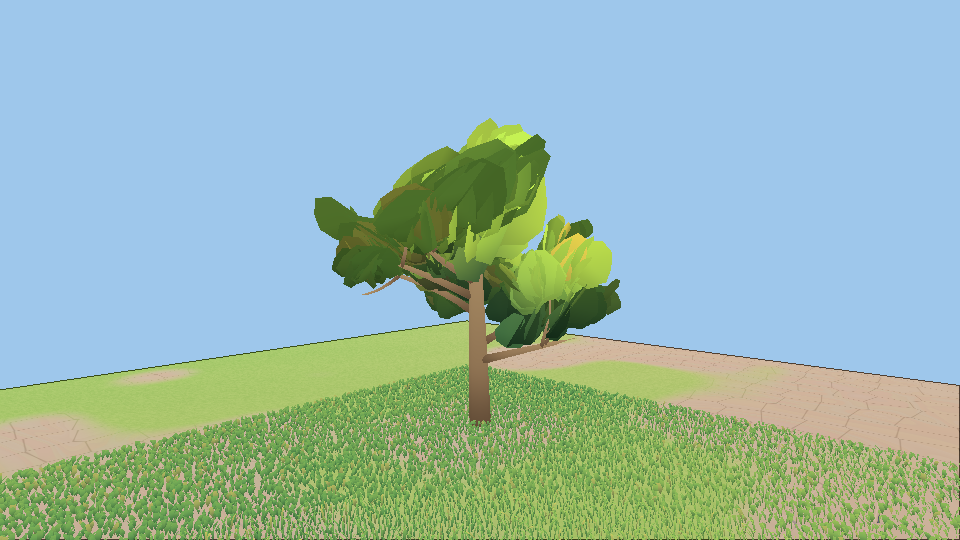
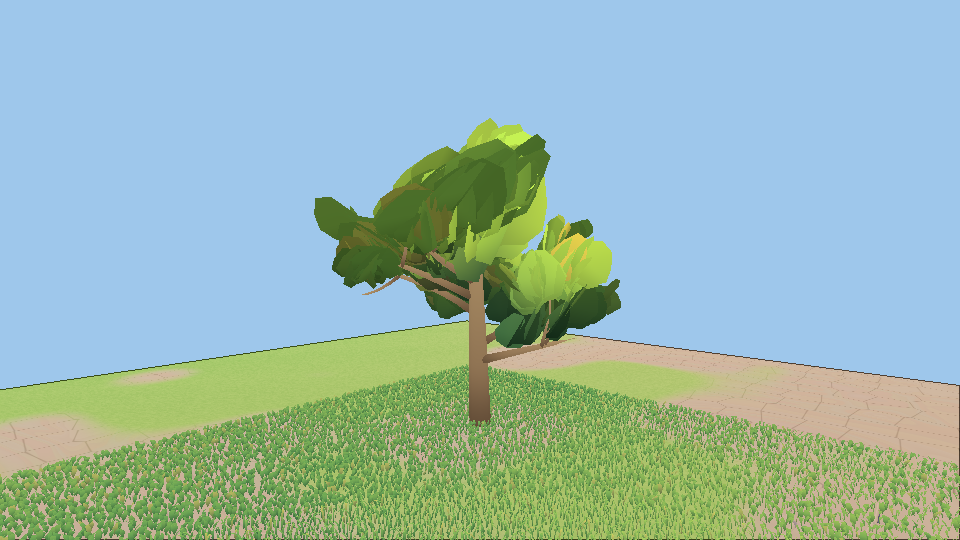
feat(vegetation): willow drapes as thin leafy strands
Keep the distant weeping silhouette, but up close drapes are thin hanging
stems with small alternating alpha leaves instead of wide curtain cards.
Smooth, dither, and crisp all drive that strand mask; crisp hard-cuts the
leaflets. `/leaves` still selects the close-up style.

diff --git a/maybraid/world/layers/vegetation/shaders/src/wesl/shading.rs b/maybraid/world/layers/vegetation/shaders/src/wesl/shading.rs
@@ -183,6 +183,14 @@ impl LeafCluster {
 		leaf_cluster_keep_for_style(alpha, pixel, seed, detail, style)
 	}
 
+	pub fn drape_mask(uv: Vec2, seed: u32, detail: f32, style: u32) -> f32 {
+		drape_strand_mask(uv, seed, detail, style)
+	}
+
+	pub fn drape_tint(uv: Vec2, seed: u32) -> f32 {
+		drape_strand_tint(uv, seed)
+	}
+
 	pub fn outward_normal(geometric: Vec3, clump_out: Vec3, uv: Vec2, detail: f32) -> Vec3 {
 		leaf_cluster_outward_normal(geometric, clump_out, uv, detail)
 	}
@@ -279,6 +287,49 @@ pub fn leaf_cluster_keep_for_style(
 		return alpha >= 0.48;
 	}
 	leaf_cluster_keep(alpha, pixel, seed, detail)
+}
+
+fn drape_leaf_blob(uv: Vec2, cell: i32, seed: u32, cells: f32, crisp: bool) -> f32 {
+	let packed = (cell.wrapping_add(31) as u32).wrapping_mul(374_761_393);
+	let h0 = hash_u32(seed ^ hash_u32(packed));
+	let h1 = hash_u32(h0 ^ 0x85ebca6b);
+	let along = (cell as f32 + 0.16 + 0.68 * hash_u32_to_unit(h1)) / cells.max(1.0);
+	let side = if (cell as u32) & 1 == 0 { 1.0 } else { -1.0 };
+	let reach = 0.32 + 0.30 * hash_u32_to_unit(h1 ^ 0xc2b2ae35);
+	let center = Vec2::new(side * reach, along);
+	let leaf_w = 0.14 + 0.11 * hash_u32_to_unit(h1 ^ 0x27d4eb2d);
+	let leaf_h = 0.048 + 0.032 * hash_u32_to_unit(h1 ^ 0xa0761d65);
+	let delta = uv - center;
+	let v = (delta.y / leaf_h.max(1e-4) * 0.5 + 0.5).clamp(0.0, 1.0);
+	let petiole = smoothstep(0.0, 0.26, v);
+	let tip = 1.0 - 0.52 * smoothstep(0.42, 1.0, v);
+	let q = Vec2::new(delta.x / (leaf_w * (petiole * tip).max(0.12)), delta.y / leaf_h);
+	let (lo, hi) = if crisp { (0.80, 0.96) } else { (0.55, 1.0) };
+	1.0 - smoothstep(lo, hi, q.length())
+}
+
+pub fn drape_strand_mask(uv: Vec2, seed: u32, detail: f32, style: u32) -> f32 {
+	let d = detail.clamp(0.0, 1.0);
+	let envelope = 1.0 - smoothstep(0.80, 1.0, uv.x.abs());
+	if d < 0.08 {
+		return envelope;
+	}
+	let stem = 1.0 - smoothstep(0.040, 0.095, uv.x.abs());
+	let cells = lerp(5.5, 12.0, d);
+	let base = (uv.y.clamp(0.0, 1.0) * cells).floor() as i32;
+	let crisp = style == LEAF_CLOSE_CRISP;
+	let mut leaves = 0.0_f32;
+	for delta in -1..=1 {
+		leaves = leaves.max(drape_leaf_blob(uv, base + delta, seed, cells, crisp));
+	}
+	let occ = stem.max(leaves) * envelope;
+	lerp(envelope, occ, d)
+}
+
+pub fn drape_strand_tint(uv: Vec2, seed: u32) -> f32 {
+	let cell = (uv.y.clamp(0.0, 1.0) * 10.0).floor() as i32;
+	let packed = (cell.wrapping_add(11) as u32).wrapping_mul(668_265_263);
+	hash_u32_to_unit(seed ^ hash_u32(packed) ^ 0x165667b1)
 }
 
 pub fn leaf_cluster_outward_normal(geometric: Vec3, clump_out: Vec3, uv: Vec2, detail: f32) -> Vec3 {
@@ -379,6 +430,30 @@ mod tests {
 		let rim = canopy_interior_shade(0.9, 0.9, 1.0, Vec3::Y);
 		let core = canopy_interior_shade(0.2, 0.1, 0.0, -Vec3::Y);
 		assert!(rim > core + 0.2);
+		Ok(())
+	}
+
+	#[test]
+	fn drape_strands_are_stem_and_leaves_near_and_filled_far() -> anyhow::Result<()> {
+		let seed = 23u32;
+		let far = LeafCluster::drape_mask(Vec2::new(0.0, 0.4), seed, 0.0, LEAF_CLOSE_SMOOTH);
+		assert!(far > 0.9, "far drape should stay a filled silhouette, got {far}");
+		let mut min_near = 1.0_f32;
+		let mut max_near = 0.0_f32;
+		for i in 0..40u32 {
+			let u = (i % 8) as f32 / 7.0 * 2.0 - 1.0;
+			let v = (i / 8) as f32 / 4.0;
+			let a = LeafCluster::drape_mask(Vec2::new(u, v), seed, 1.0, LEAF_CLOSE_CRISP);
+			min_near = min_near.min(a);
+			max_near = max_near.max(a);
+		}
+		assert!(max_near > 0.7, "near drape should keep a stem or leaves, got {max_near}");
+		assert!(min_near < 0.2, "near drape should punch between strands, got {min_near}");
+		assert!(!LeafCluster::keep_for_style(0.2, Vec2::new(3.0, 5.0), seed, 1.0, LEAF_CLOSE_CRISP));
+		assert!(LeafCluster::keep_for_style(0.8, Vec2::new(3.0, 5.0), seed, 1.0, LEAF_CLOSE_CRISP));
+		let a = LeafCluster::drape_tint(Vec2::new(0.1, 0.12), 8);
+		let b = LeafCluster::drape_tint(Vec2::new(0.1, 0.82), 8);
+		assert!((a - b).abs() > 0.02);
 		Ok(())
 	}
 

diff --git a/maybraid/world/layers/vegetation/tree-field-playground/src/capture.rs b/maybraid/world/layers/vegetation/tree-field-playground/src/capture.rs
@@ -179,6 +179,10 @@ pub const TREE_CAPTURE_SHOTS: &[CaptureShot] = &[
 	CaptureShot::gpu("wind-gust", GUST, CaptureScene::Close).with_gust(),
 	CaptureShot::gpu("willow-full", WILLOW_FULL, CaptureScene::Willow),
 	CaptureShot::gpu("willow-drape-close", WILLOW_DRAPE, CaptureScene::Willow),
+	CaptureShot::gpu("willow-drape-close-dither", WILLOW_DRAPE, CaptureScene::Willow)
+		.with_leaves(LeafCloseStyle::Dither),
+	CaptureShot::gpu("willow-drape-close-crisp", WILLOW_DRAPE, CaptureScene::Willow)
+		.with_leaves(LeafCloseStyle::Crisp),
 	CaptureShot::gpu("willow-wind", WILLOW_FULL, CaptureScene::Willow).with_gust(),
 ];
 
@@ -316,6 +320,8 @@ mod tests {
 			"kit-close",
 			"willow-full",
 			"willow-drape-close",
+			"willow-drape-close-dither",
+			"willow-drape-close-crisp",
 			"willow-wind",
 		] {
 			assert!(TREE_CAPTURE_SHOTS.iter().any(|shot| shot.name == name), "missing {name}");
@@ -326,6 +332,18 @@ mod tests {
 		let kit = kit.ok_or_else(|| anyhow::anyhow!("missing kit close"))?;
 		assert_eq!(gpu.camera, kit.camera);
 		assert_eq!(gpu.look_at, kit.look_at);
+		let drape = TREE_CAPTURE_SHOTS
+			.iter()
+			.find(|shot| shot.name == "willow-drape-close")
+			.ok_or_else(|| anyhow::anyhow!("missing willow drape close"))?;
+		for name in ["willow-drape-close-dither", "willow-drape-close-crisp"] {
+			let shot = TREE_CAPTURE_SHOTS
+				.iter()
+				.find(|shot| shot.name == name)
+				.ok_or_else(|| anyhow::anyhow!("missing {name}"))?;
+			assert_eq!(shot.camera, drape.camera);
+			assert_eq!(shot.look_at, drape.look_at);
+		}
 		assert!(TREE_CAPTURE_SHOTS.iter().any(|shot| shot.gust));
 		Ok(())
 	}

diff --git a/maybraid/world/layers/vegetation/shaders/src/wesl.rs b/maybraid/world/layers/vegetation/shaders/src/wesl.rs
@@ -60,11 +60,12 @@ pub use lod::{
 	ProjectedSize,
 };
 pub use shading::{
-	canopy_clump_albedo, canopy_interior_shade, crown_albedo, crown_layer_albedo, grass_albedo,
-	grass_variation_palette, leaf_close_uses_cluster, leaf_cluster_alpha_for_style, leaf_cluster_keep,
-	leaf_cluster_keep_for_style, leaf_cluster_mask, leaf_cluster_outward_normal, leaf_cluster_tint,
-	leaf_painterly_lit, meadow_color_field, painterly_lit, two_sided_wrap, wood_albedo, LeafCluster,
-	VegetationPalette, LEAF_CLOSE_CRISP, LEAF_CLOSE_DITHER, LEAF_CLOSE_SMOOTH,
+	canopy_clump_albedo, canopy_interior_shade, crown_albedo, crown_layer_albedo, drape_strand_mask,
+	drape_strand_tint, grass_albedo, grass_variation_palette, leaf_close_uses_cluster,
+	leaf_cluster_alpha_for_style, leaf_cluster_keep, leaf_cluster_keep_for_style, leaf_cluster_mask,
+	leaf_cluster_outward_normal, leaf_cluster_tint, leaf_painterly_lit, meadow_color_field,
+	painterly_lit, two_sided_wrap, wood_albedo, LeafCluster, VegetationPalette, LEAF_CLOSE_CRISP,
+	LEAF_CLOSE_DITHER, LEAF_CLOSE_SMOOTH,
 };
 pub use wind::{
 	deform_along_curve, max_wind_displacement_m, wind_field, WindDeform, WindField, WindInputs,

diff --git a/maybraid/world/layers/vegetation/tree-field/src/topology.rs b/maybraid/world/layers/vegetation/tree-field/src/topology.rs
@@ -513,7 +513,7 @@ impl TreePlant {
 					palette: pal.tip_rgb,
 					shape: 2.0,
 				});
-				// Extra overlapping curtain slightly inward so the drape reads as a mass.
+				// A second thin strand, slightly offset, so the hanging mass stays dense from afar.
 				if leaves.len() as u32 >= MAX_LEAVES_PER_PLANT {
 					return;
 				}
@@ -522,12 +522,13 @@ impl TreePlant {
 					plant_index: 0,
 					parent_branch: index,
 					attach_t: (0.50 + 0.38 * hash_u32_to_unit(mate)).clamp(0.38, 0.94),
-					size_m: (length * 0.78).max(1.8),
+					size_m: (length * 0.88).max(2.0),
 					twist: (hash_u32_to_unit(mate ^ 1) - 0.5) * 0.9,
 					fold: 0.28,
 					flutter: 0.048,
 					density_rank: rank_hash * 0.50,
-					facing: (facing + tangent_on(up, 0.7) * 0.22).normalize_or(facing),
+					facing: (facing + tangent_on(up, 0.55 + drape_i as f32 * 0.31) * 0.28)
+						.normalize_or(facing),
 					leaf_id: mate,
 					palette: pal.tip_rgb,
 					shape: 2.0,

diff --git a/maybraid/world/layers/vegetation/tree-field/src/recipe.rs b/maybraid/world/layers/vegetation/tree-field/src/recipe.rs
@@ -111,7 +111,7 @@ impl TreeRecipe {
 			wood: VegetationPalette::botw_wood(),
 			foliage: VegetationPalette::botw_canopy_crown(),
 			form: TreeForm::Willow,
-			drape_count: 3..=4,
+			drape_count: 5..=7,
 			drape_length_m: 3.8..=6.4,
 			leaf_close_style: LeafCloseStyle::Smooth,
 		}
@@ -171,7 +171,7 @@ mod tests {
 	fn willow_is_a_distinct_recipe() -> anyhow::Result<()> {
 		let willow = TreeRecipe::willow();
 		assert!(willow.is_willow());
-		assert!(*willow.drape_count.end() >= 3);
+		assert!(*willow.drape_count.end() >= 5);
 		assert!(*willow.drape_length_m.end() > 4.0);
 		assert!(willow.wood_stiffness < TreeRecipe::storybook().wood_stiffness);
 		Ok(())

diff --git a/maybraid/world/layers/vegetation/tree-field/src/shaders.rs b/maybraid/world/layers/vegetation/tree-field/src/shaders.rs
@@ -58,7 +58,7 @@ mod tests {
 		assert!(foliage.contains("crown_layer_albedo"));
 		assert!(foliage.contains("grass_variation_palette"));
 		assert!(foliage.contains("leaf_cluster_keep_for_style"));
-		assert!(foliage.contains("leaf_cluster_alpha_for_style"));
+		assert!(foliage.contains("drape_strand_mask"));
 		assert!(foliage.contains("import vegetation_shaders::wesl::shading"));
 		assert!(select_wood.contains("import vegetation_shaders::wesl::lod"));
 		assert!(select_foliage.contains("import vegetation_shaders::wesl::lod"));
